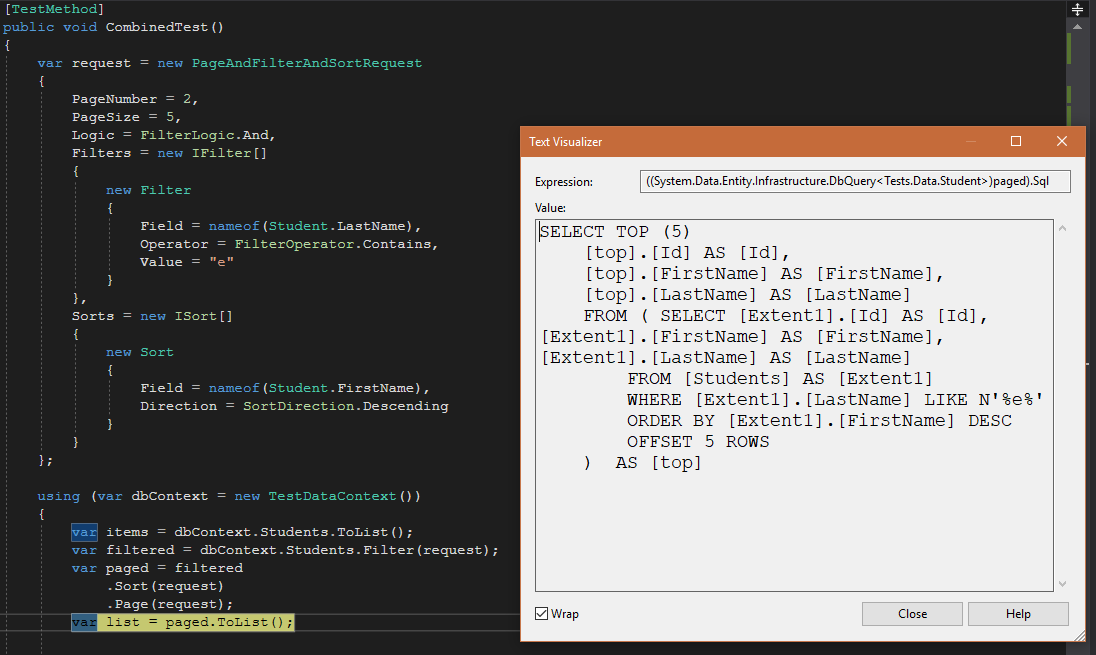
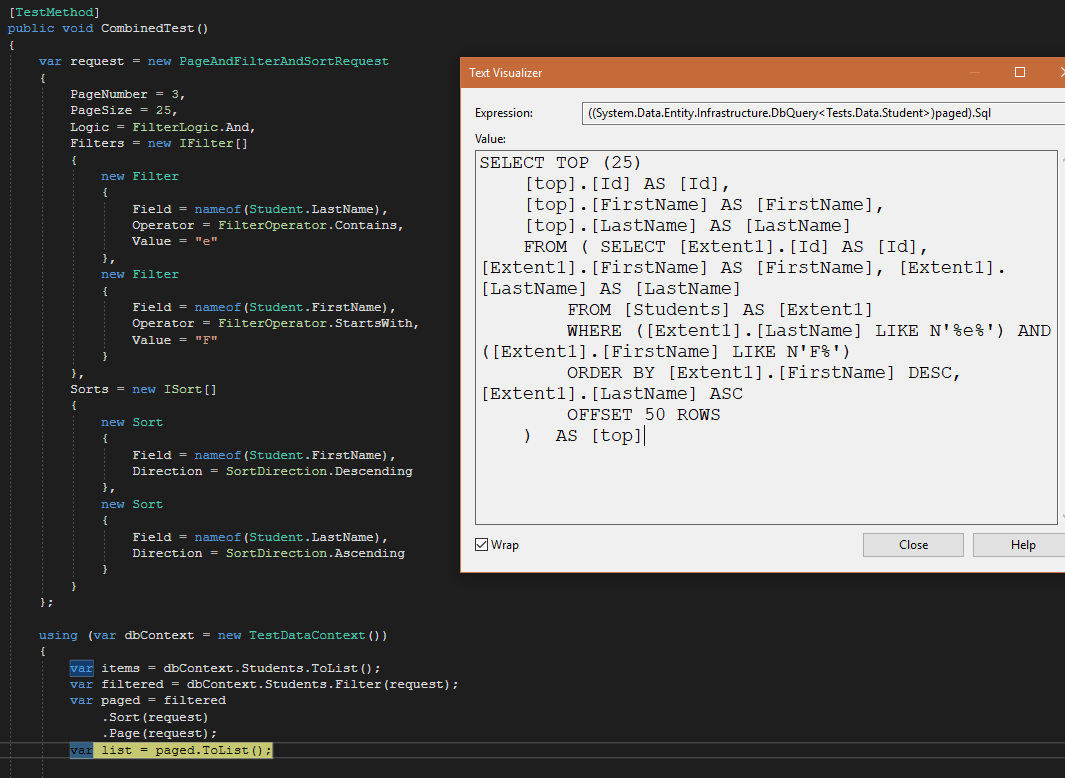
better readme

diff --git a/src/Tests/CombinedTests.cs b/src/Tests/CombinedTests.cs
@@ -18,8 +18,8 @@ namespace Tests
         {
             var request = new PageAndFilterAndSortRequest
             {
-                PageNumber = 2,
-                PageSize = 5,
+                PageNumber = 3,
+                PageSize = 25,
                 Logic = FilterLogic.And,
                 Filters = new IFilter[]
                 {
@@ -28,6 +28,12 @@ namespace Tests
                         Field = nameof(Student.LastName),
                         Operator = FilterOperator.Contains,
                         Value = "e"
+                    },
+                    new Filter
+                    {
+                        Field = nameof(Student.FirstName),
+                        Operator = FilterOperator.StartsWith,
+                        Value = "F"
                     }
                 },
                 Sorts = new ISort[]
@@ -36,6 +42,11 @@ namespace Tests
                     {
                         Field = nameof(Student.FirstName),
                         Direction = SortDirection.Descending
+                    },
+                    new Sort
+                    {
+                        Field = nameof(Student.LastName),
+                        Direction = SortDirection.Ascending
                     }
                 }
             };
